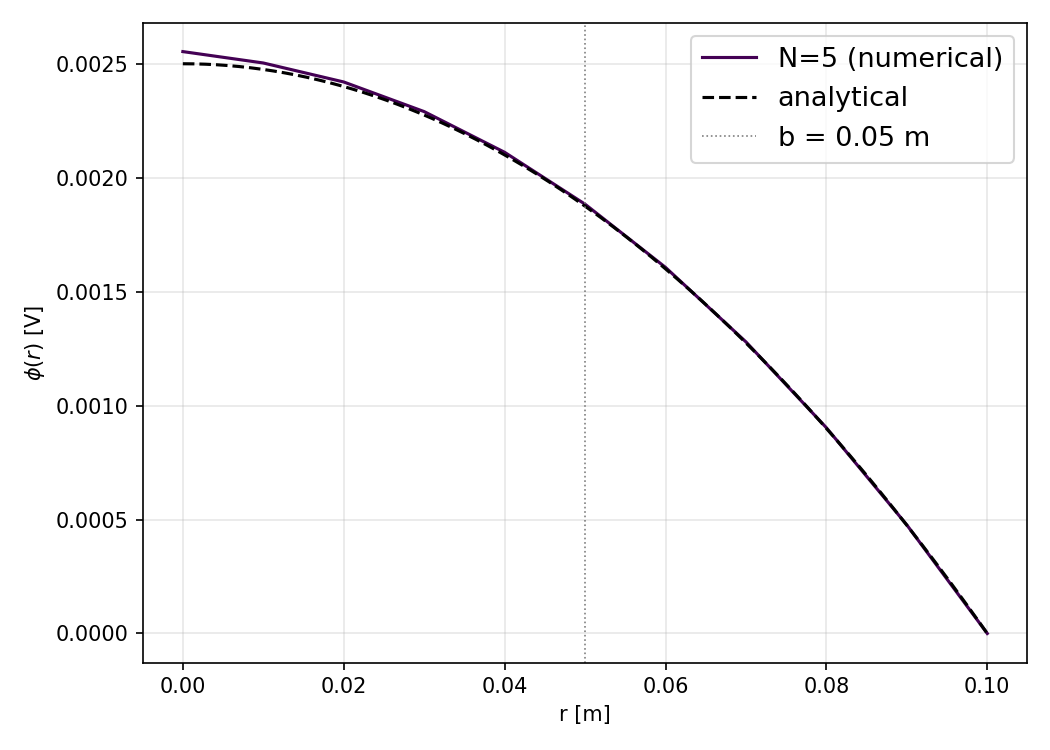
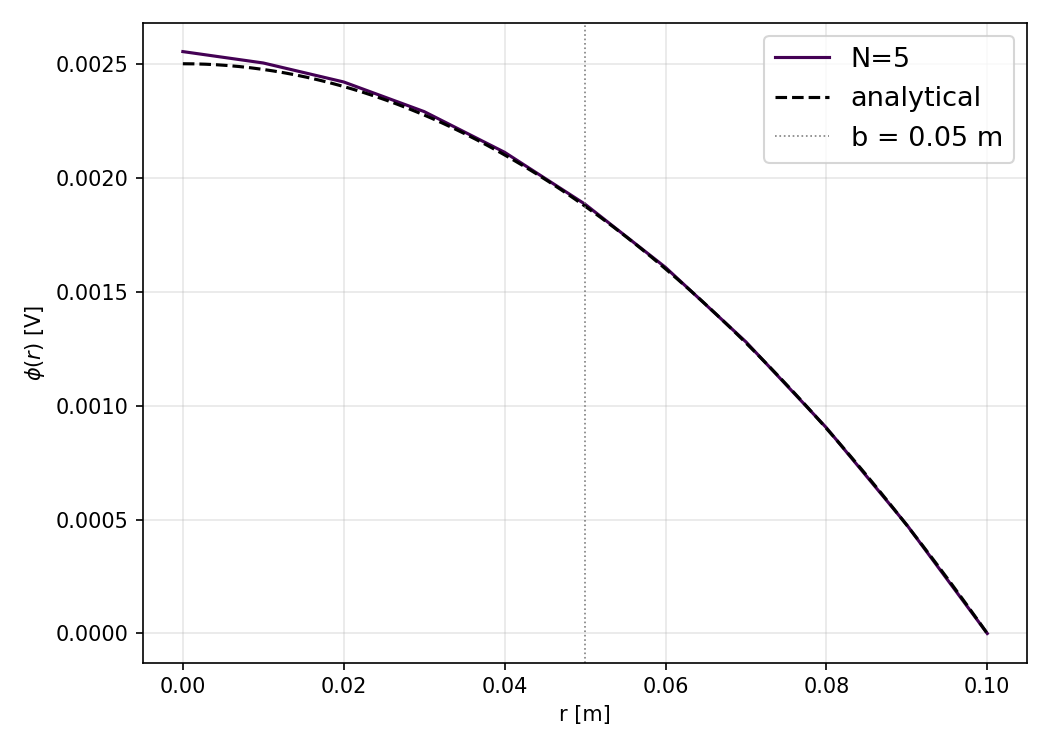
tt les graph non optionel

Changed region(s): [[0.701, 0.1227, 0.9448, 0.2147], [0.6705, 0.0307, 0.9448, 0.092]]

diff --git a/parameterscan.py b/parameterscan.py
@@ -56,7 +56,7 @@ fig1, ax1 = plt.subplots(figsize=(7, 5))
 for N, col in zip(N_phi_Er, colors_phi):
     fname = os.path.join(outdir, f"{outstr}_N1_{int(N)}_phi.out")
     data  = np.loadtxt(fname)
-    ax1.plot(data[:, 0], data[:, 1], color=col, lw=1.5, label=f"N={int(N)} (numerical)")
+    ax1.plot(data[:, 0], data[:, 1], color=col, lw=1.5, label=f"N={int(N)}")
 
 if MODE == 'trivial':
     r_ana = np.linspace(0, R, 500)
@@ -81,9 +81,9 @@ else:
 for N, col in zip(N_phi_Er, colors_phi):
     fname = os.path.join(outdir, f"{outstr}_N1_{int(N)}_ErDr.out")
     data  = np.loadtxt(fname)
-    ax2.plot(data[:, 0], data[:, 1], color=col, lw=1.5, label=f"N={int(N)} (numerical)")
+    ax2.plot(data[:, 0], data[:, 1], color=col, lw=1.5, label=f"N={int(N)}")
     if MODE == 'nontrivial':
-        ax2b.plot(data[:, 0], data[:, 2], color=col, lw=1.5, label=f"N={int(N)} (numerical)")
+        ax2b.plot(data[:, 0], data[:, 2], color=col, lw=1.5, label=f"N={int(N)}")
 
 if MODE == 'trivial':
     r_ana = np.linspace(0, R, 500)
